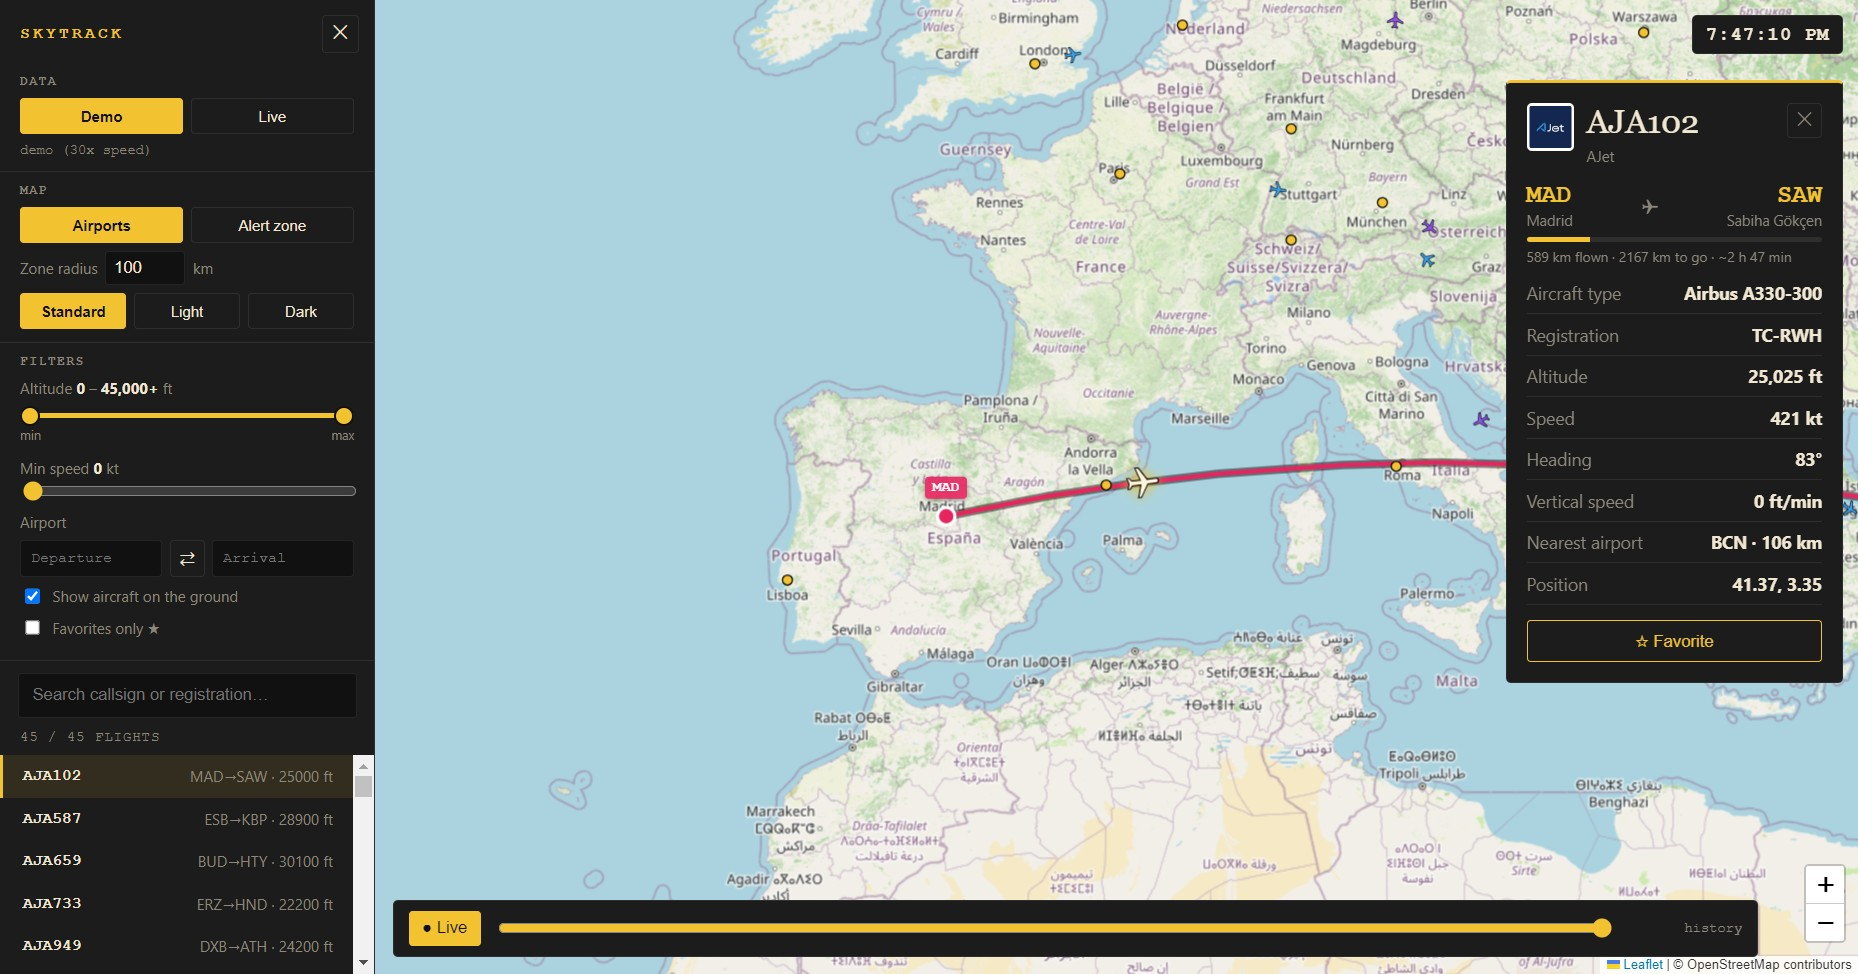
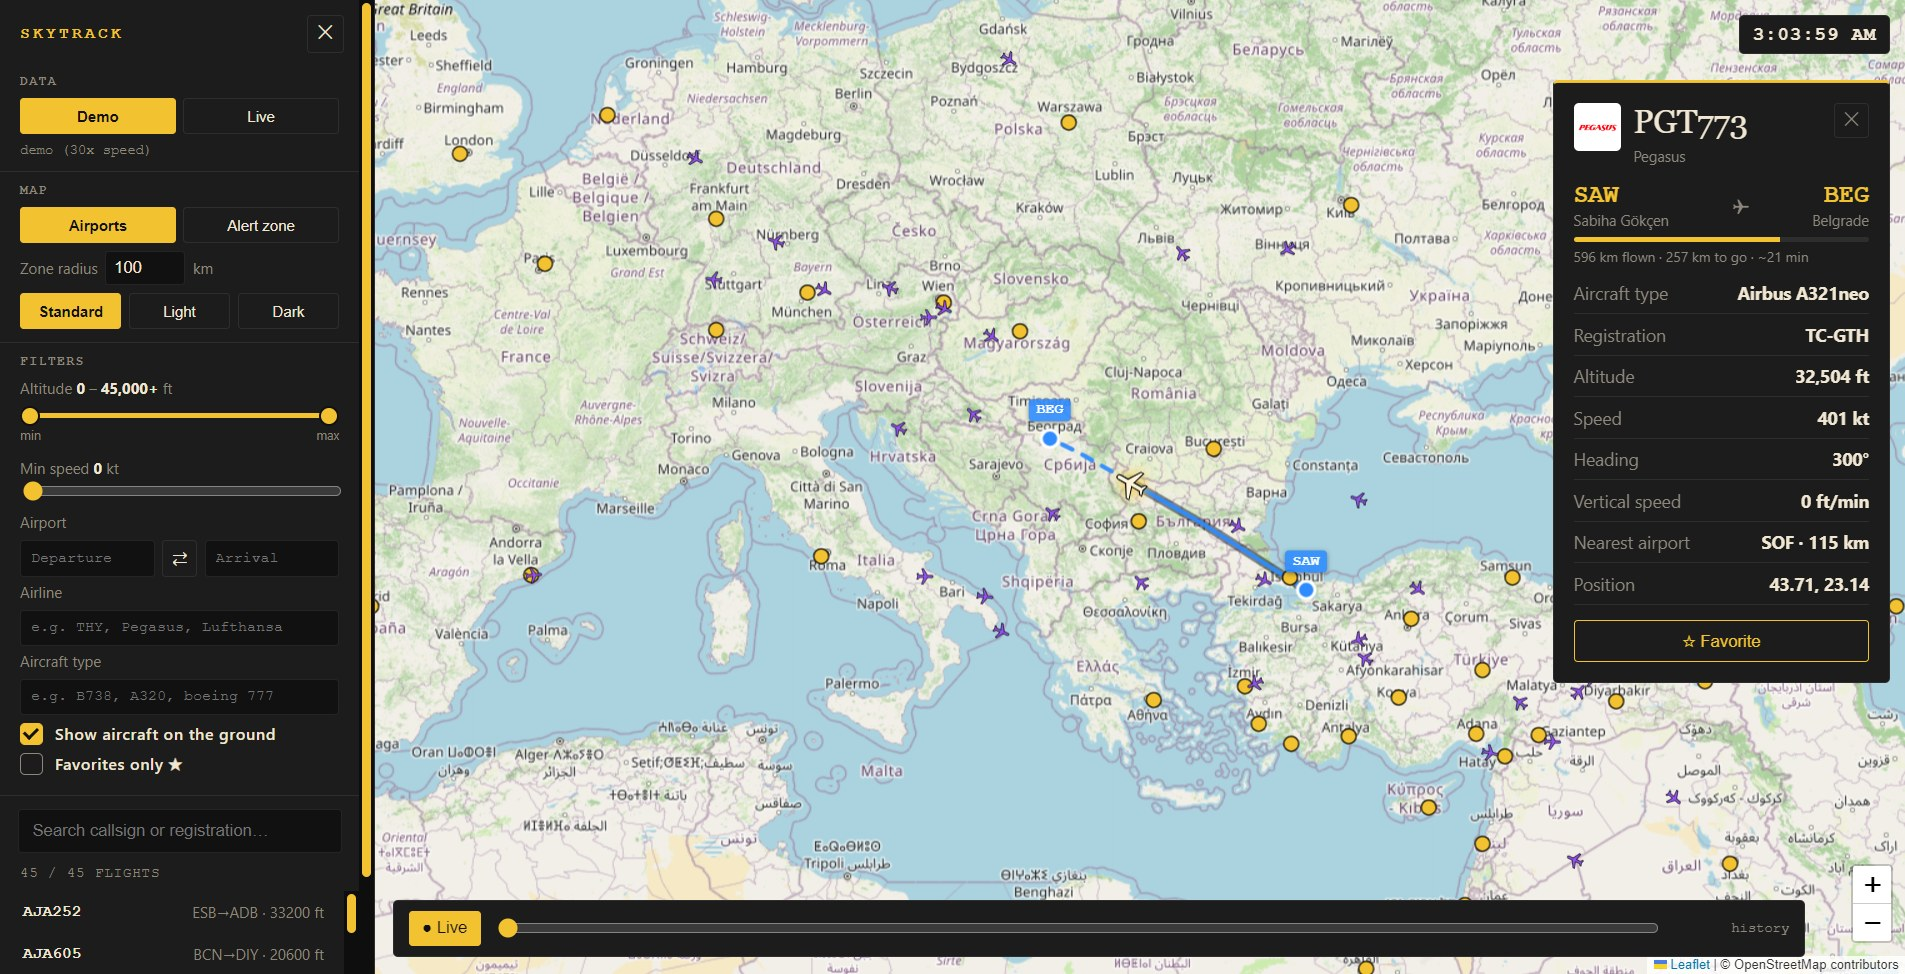
Checkbox back to yellow/black; refresh README screenshot

diff --git a/src/index.html b/src/index.html
@@ -57,7 +57,7 @@ canvas.planes{position:absolute;top:0;left:0;pointer-events:none}
 .apr input{flex:1;min-width:0;padding:7px 8px;background:#111;border:1px solid var(--line);border-radius:3px;color:var(--fg);outline:0;font:600 12px ui-monospace,monospace;text-transform:uppercase}
 .apr input#fTp,.apr input#fAl{text-transform:none}.apr input::placeholder{text-transform:none;font-weight:400}.apr input:focus{border-color:var(--ac)}.apr input.set{border-color:var(--ac);color:var(--ac)}
 .dr .rmin,.dr .rmax{position:absolute;top:19px;font-size:10px}.dr .rmax{right:0}
-.flt label{display:block;margin:6px 0}.flt b{color:var(--fg)}.flt input[type=range]{width:100%;accent-color:var(--ac)}.flt .ck{display:flex;gap:10px;align-items:center;cursor:pointer;font:600 13px/1.2 'Segoe UI Variable','Segoe UI',Inter,system-ui,sans-serif;letter-spacing:.03em;color:var(--fg);user-select:none}.flt .ck:hover{color:var(--ac)}.flt .ck input{appearance:none;-webkit-appearance:none;margin:0;width:18px;height:18px;flex:none;border:1.5px solid var(--mut);border-radius:4px;background:transparent;cursor:pointer;display:grid;place-content:center;transition:background .15s,border-color .15s}.flt .ck input::after{content:'';width:9px;height:5px;border:solid #fff;border-width:0 0 2.5px 2.5px;transform:rotate(-45deg) translate(1px,-1px) scale(0);transition:transform .12s}.flt .ck input:checked{background:#2f8cff;border-color:#2f8cff}.flt .ck input:checked::after{transform:rotate(-45deg) translate(1px,-1px) scale(1)}.flt .ck input:focus-visible{outline:2px solid var(--ac);outline-offset:2px}
+.flt label{display:block;margin:6px 0}.flt b{color:var(--fg)}.flt input[type=range]{width:100%;accent-color:var(--ac)}.flt .ck{display:flex;gap:10px;align-items:center;cursor:pointer;font:600 13px/1.2 'Segoe UI Variable','Segoe UI',Inter,system-ui,sans-serif;letter-spacing:.03em;color:var(--fg);user-select:none}.flt .ck:hover{color:var(--ac)}.flt .ck input{appearance:none;-webkit-appearance:none;margin:0;width:18px;height:18px;flex:none;border:1.5px solid var(--mut);border-radius:4px;background:transparent;cursor:pointer;display:grid;place-content:center;transition:background .15s,border-color .15s}.flt .ck input::after{content:'';width:9px;height:5px;border:solid #111;border-width:0 0 2.5px 2.5px;transform:rotate(-45deg) translate(1px,-1px) scale(0);transition:transform .12s}.flt .ck input:checked{background:var(--ac);border-color:var(--ac)}.flt .ck input:checked::after{transform:rotate(-45deg) translate(1px,-1px) scale(1)}.flt .ck input:focus-visible{outline:2px solid var(--ac);outline-offset:2px}
 #card button{margin-top:12px;width:100%;background:transparent;color:var(--ac);border:1px solid var(--ac);border-radius:3px;padding:7px;cursor:pointer}#card button:hover{background:var(--ac);color:#111}
 #rp{position:absolute;left:14px;right:80px;bottom:14px;z-index:1000;display:flex;gap:12px;align-items:center;background:var(--pn);border:1px solid var(--line);border-radius:4px;padding:8px 12px}
 #rp button{background:transparent;color:var(--fg);border:1px solid var(--line);border-radius:3px;padding:5px 10px;cursor:pointer}#rp button.on{color:#111;background:var(--ac);border-color:var(--ac)}
